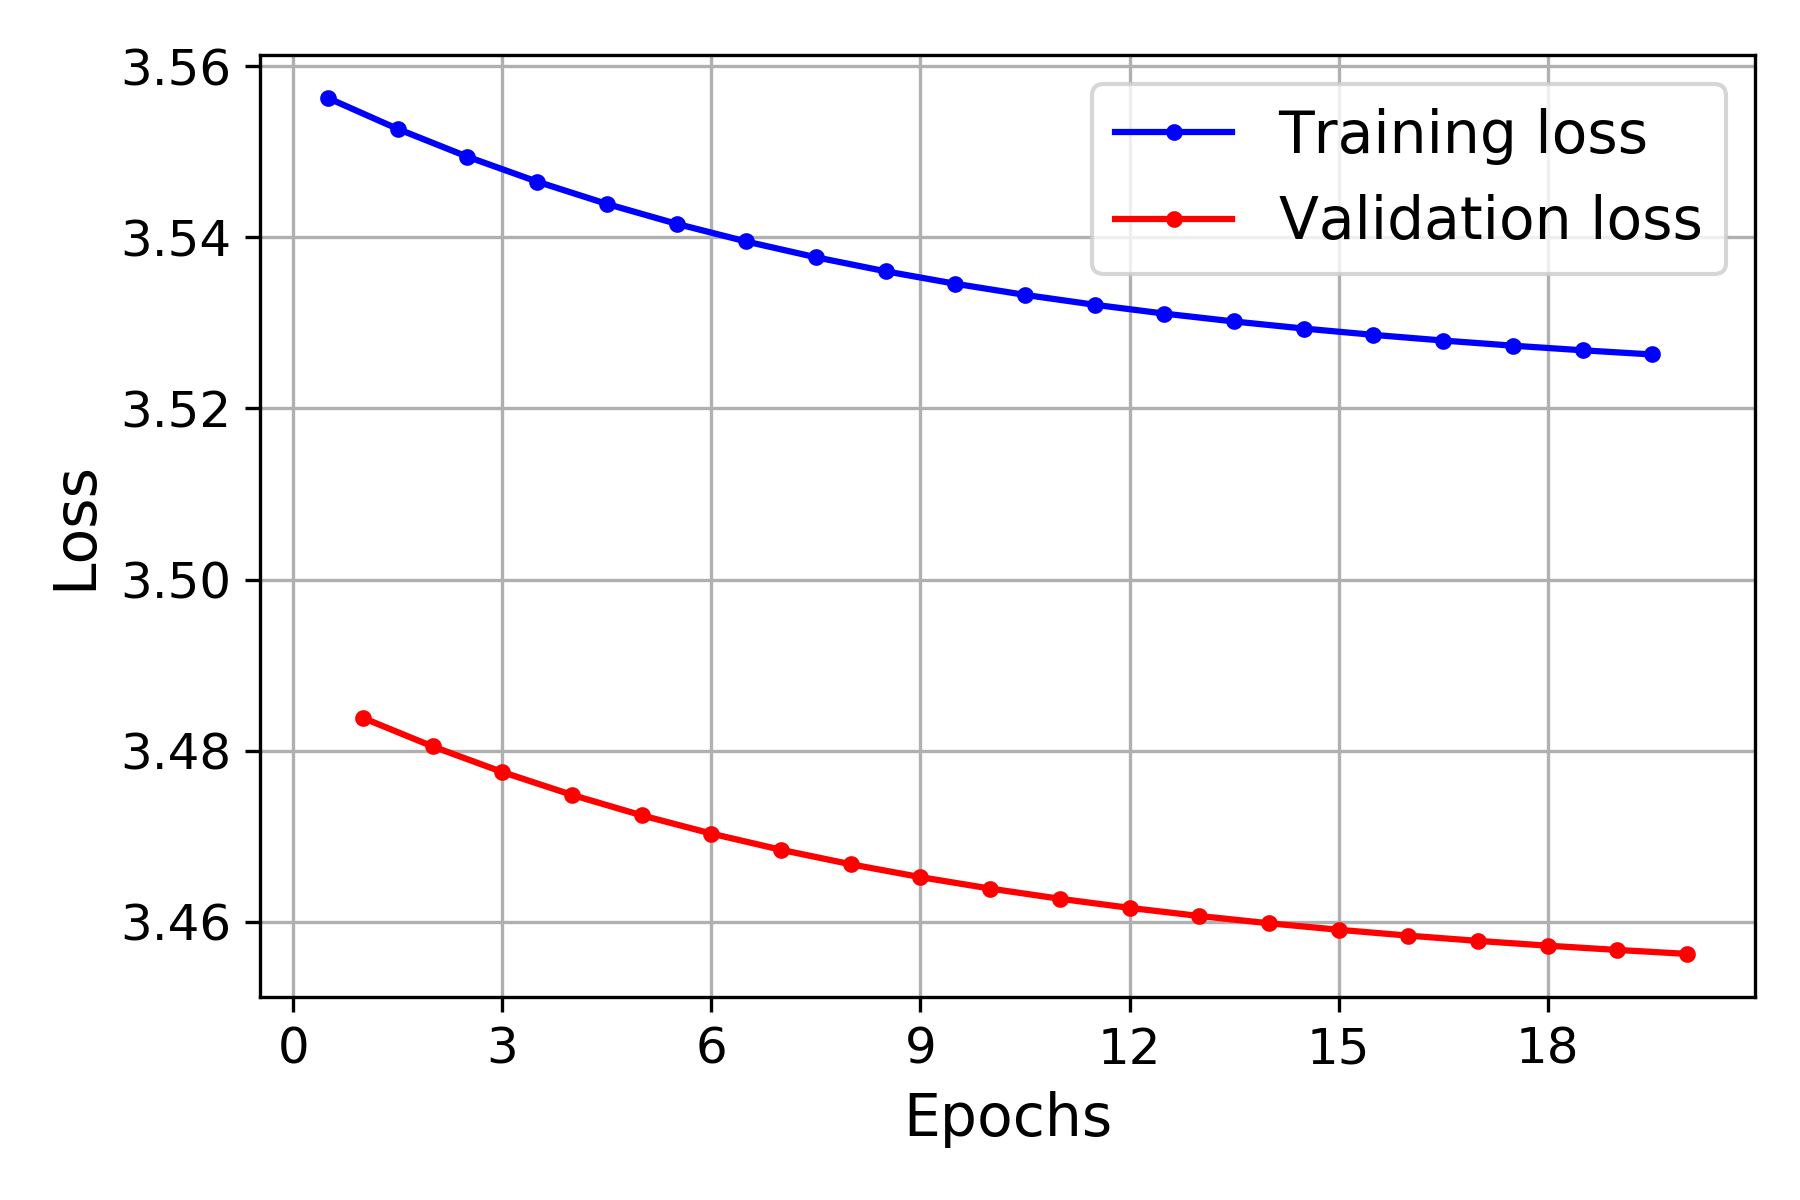
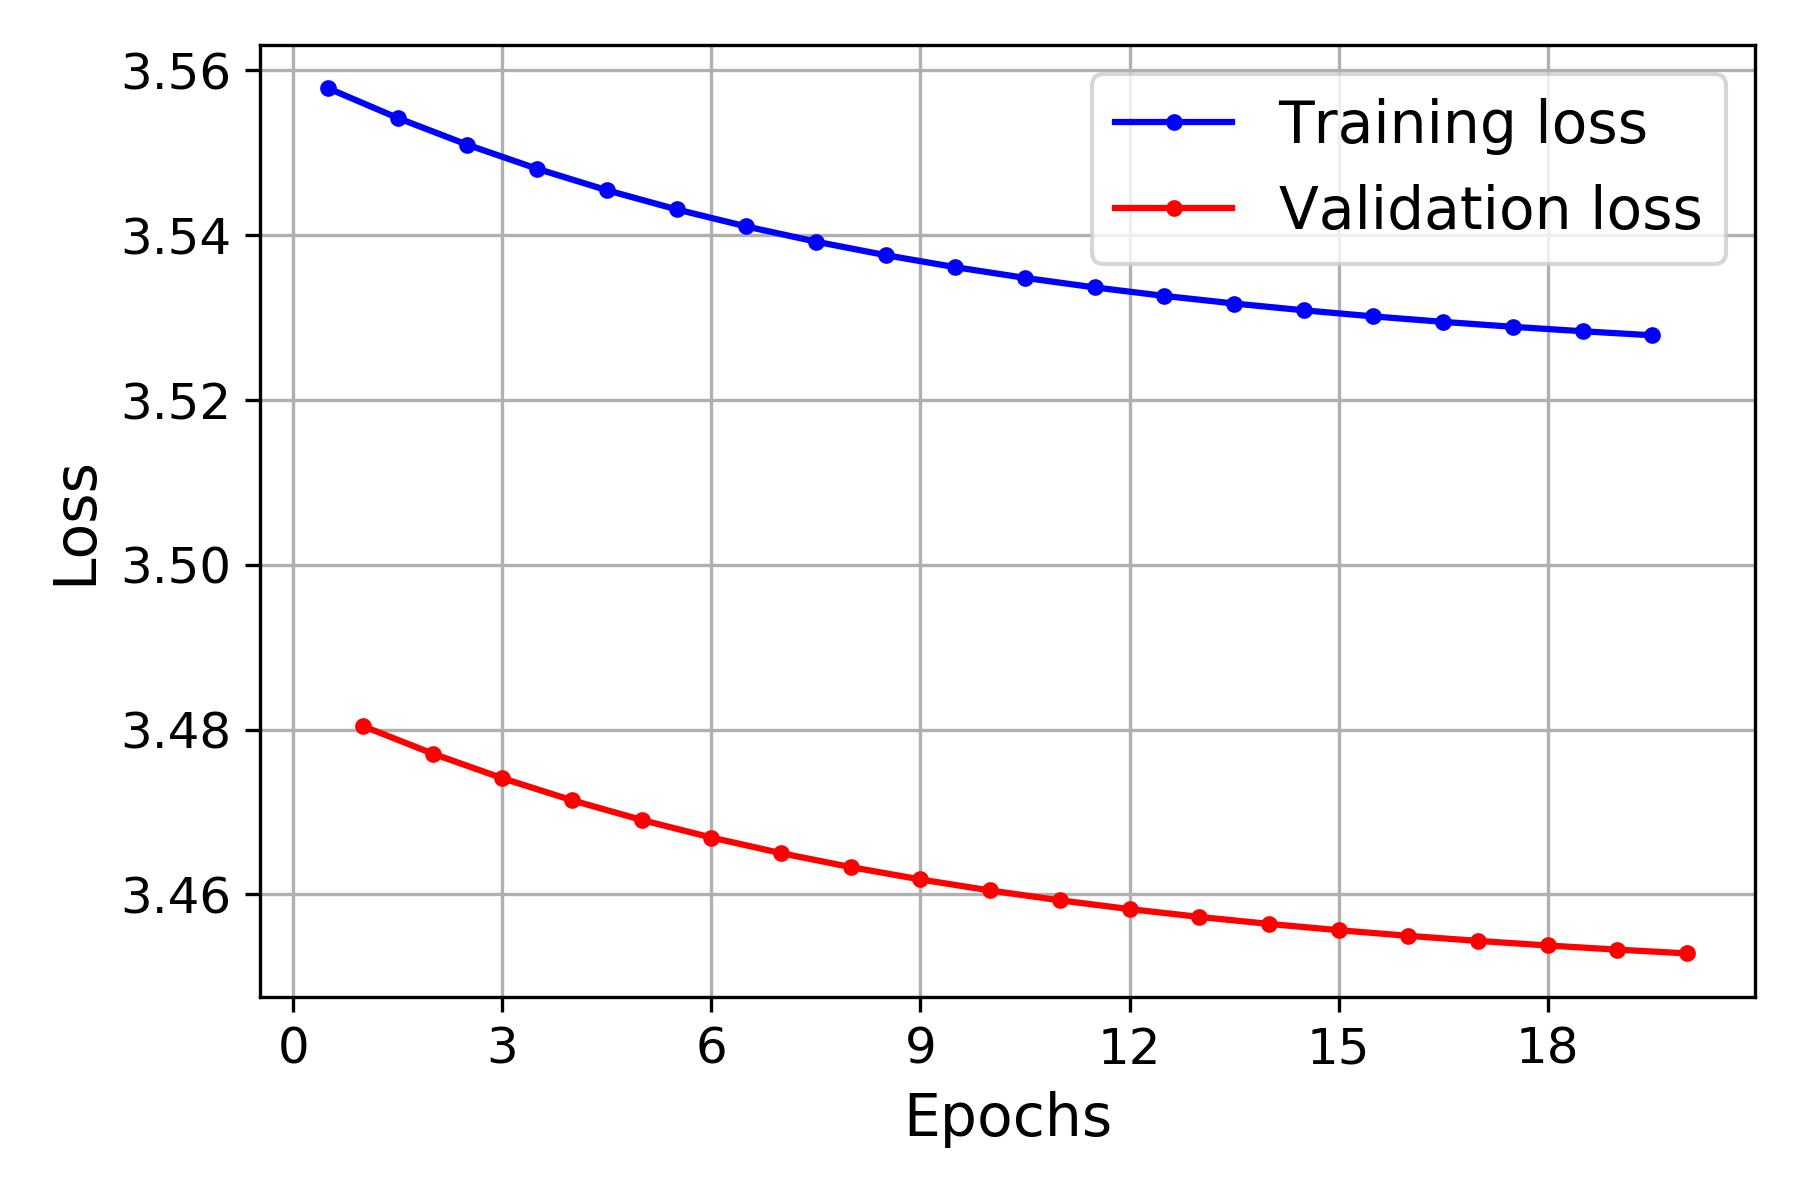
upes.. baseline simple one step ahead rnn model

diff --git a/rnn_example.py b/rnn_example.py
@@ -61,8 +61,8 @@ def plot_multiple_forecasts(X, Y, Y_pred):
     ahead = Y.shape[1]
     plot_series(X[0, :, 0])
     plt.plot(np.arange(n_steps, n_steps + ahead), Y[0, :, 0], "ro-", label="Actual")
-    plt.plot(np.arange(n_steps, n_steps + ahead), Y_pred[0, :, 0], "bx-", label="Forecast", markersize=10)
-    plt.axis([0, n_steps + ahead, -1, 1])
+    plt.plot(np.arange(n_steps, n_steps + ahead), Y_pred[0, :, 0], "bx-", label="Forecast")
+    #plt.axis([0, n_steps + ahead, -1, 1])
     plt.legend(fontsize=14)
 
 def plot_series(series, y=None, y_pred=None, x_label="$t$", y_label="$x(t)$"):
@@ -101,12 +101,12 @@ df = pd.read_csv('data_sources/yr_sensor_data_test.csv', index_col='time')
 #series = generate_time_series(10000, n_steps + lookforward)
 batch_size, series= chop_time_series(df,n_steps+lookforward)
 
-X_train = series[:49, :n_steps]
-y_train = series[:49, -lookforward]
-X_valid = series[50:51, :n_steps]
-y_valid = series[50:51, -lookforward]
-X_test = series[51:, :n_steps]
-y_test = series[51:, -lookforward]
+X_train = series[:48, :n_steps]
+y_train = series[:48, -lookforward]
+X_valid = series[49:50, :n_steps]
+y_valid = series[49:50, -lookforward]
+X_test = series[50:, :n_steps]
+y_test = series[50:, -lookforward]
 
 # %%
 print ('Training Data X Shape : ' + str(X_train.shape))
@@ -181,7 +181,25 @@ save_fig("deep_rnn_1_step_pred_plot")
 plt.show()
 
 
-mmm
+'''Multi step predictions using RNNs'''
+
+np.random.seed(43) # not 42, as it would give the first series in the train set
+
+batch_size, series = chop_time_series(df, n_steps + lookforward)
+
+X_new, Y_new = series[:, :n_steps], series[:, n_steps:]
+X = X_new
+for step_ahead in range(lookforward):
+    y_pred_one = model.predict(X[:, step_ahead:])[:, np.newaxis, :]
+    X = np.concatenate([X, y_pred_one], axis=1)
+
+Y_pred = X[:, n_steps:]
+
+plot_multiple_forecasts(X_new, Y_new, Y_pred)
+save_fig("rnn_multi_step_forecast_ahead_plot")
+plt.show()
+
+mm
 
 #Simple LSTM
 np.random.seed(42)
